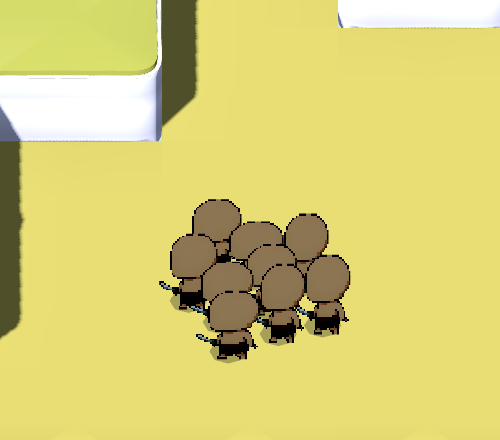
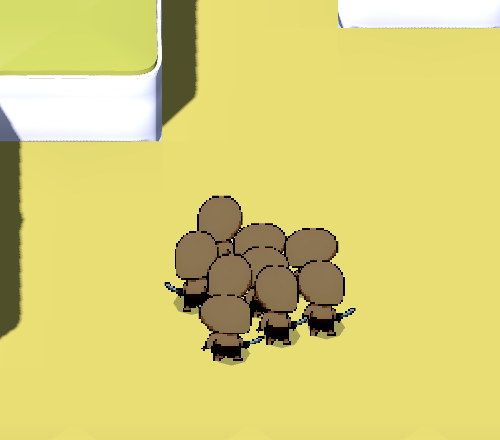
몸이 프레임마다 떨던 것을 멈추고, 회전은 픽셀 대신 자리 좌표로 다시 쟀다
사용자가 창을 보고: 「캐릭터가 프레임이 계속 앞뒤로 왔다갔다 거리면서 끔찍하다」.
랩이 프레임 머리에서 아홉을 자리에 써 넣으면 Battle.step 이 그걸 도로 밀어내고,
뷰는 밀려난 자리를 그렸다 — 몸마다 한 프레임에 한 번씩 끌려왔다 밀려났고 방향까지
같이 뒤집혔다. game.battle 을 null 로 두어 전투 시계만 멈췄다. FieldView 는 제
참조를 들고 있어서 그림은 그대로 돈다.

멈춘 판에서 두 프레임을 찍어 쟀다 — 바뀐 픽셀 0.

그래서 앞 라운드의 「잡음 6천」은 잡음이 아니라 이 떨림이었다. 회전 판정을 다시
했는데, 멈춰 놓고 재도 06 이 6,509 로 나온다 — 화면에는 몸마다 제 흔들림 위상이
같이 찍혀서, 자리는 같아도 누가 어디 서느냐가 바뀌면 그림이 바뀐다.

seat_probe.gd 를 넣었다. 스크린샷이 아니라 자리 아홉을 집합으로 찍어 본다:
06 은 남·동에서 자리가 안 움직이고 그 아홉이 02 와 같은 점이다. 03 은 움직인다.
결론은 그대로지만 앞의 근거는 틀렸고, 그걸 NOTES 와 참고 자료에 적었다.

Claude-Session: https://claude.ai/code/session_01NaKcQWjk7PPU7N4izTwNju

Changed region(s): [[0.3, 0.4432, 0.72, 0.8273]]

diff --git a/.prototypes/nine/06-ranks-wide/NOTES.md b/.prototypes/nine/06-ranks-wide/NOTES.md
@@ -4,9 +4,9 @@ Built to answer one thing the user was torn on (2026-08-31): *「I do like 2's s
 right.」* `03-ranks` is `02-grid` squeezed front to back and turned, so this opens the squeeze back out
 and keeps only the turning.
 
-- **What it buys** — nothing that can be seen. **Measured, not argued**: at south and at east it is the
-  same picture as `02-grid` to within the idle sway (≈5,000 changed pixels against a ≈6,000 noise
-  floor, where `03-ranks` differs from `02-grid` by ≈10,500).
+- **What it buys** — nothing that can be seen. **Measured with `seat_probe.gd`**: its nine seats do not
+  move between south and east, and they are the same nine points as `02-grid`'s. `03-ranks`' seats do
+  move.
 - **What it costs** — a sixth version to read, for a difference that does not exist at right angles.
 - **What it CANNOT do** — **show that it turned.** A square 3x3 lattice rotated a quarter turn maps
   onto itself, so「it faces east now」and「it faces south」are the same nine pixels.
@@ -16,3 +16,18 @@ and keeps only the turning.
 **A formation can only be SEEN to turn if its two pitches differ.** Equal spacing across and along is
 what makes the square, and a square is what makes the turn invisible. ⇒ **「02's look」 and 「it turns」
 are the same choice asked twice, and they cannot both be had at 90° facings.**
+
+## ⚠⚠ And how it was nearly measured wrong, twice
+
+**The first instrument was a pixel difference between two screenshots, and it said this version DOES
+turn** (≈6,500 changed pixels). It was wrong twice over:
+
+1. **The board was not still.** The lab wrote the seats at the top of the frame and `Battle.step`
+   nudged every body off them before the view drew — so any two frames differed by ~6,000 pixels no
+   matter what. That was read as a noise floor; it was a bug, and `_freeze` is the fix.
+2. **A screenshot carries each body's own idle-sway phase.** Even frozen, moving body 4 to a different
+   seat changes the picture while the nine SEATS stay the same nine points. **The seat plan is a set of
+   places; the picture also says who is standing in which.**
+
+⇒ **`seat_probe.gd` answers this question and screenshots do not.** ⚠ The conclusion above survived
+both errors, which is luck and not method.

diff --git a/docs/reference/2026-08-31-nine-in-a-block-prototypes/README.md b/docs/reference/2026-08-31-nine-in-a-block-prototypes/README.md
@@ -25,10 +25,17 @@ of the question the first one raised**, and both are kept: the size answer lives
 first.」* ⇒ the sheet was re-shot: **the same nine at two FACINGS instead of two body sizes**, and
 `06-ranks-wide` was added — `02-grid`'s square spacing with `03-ranks`' turning.
 
-⚠⚠ **A FORMATION CAN ONLY BE SEEN TO TURN IF ITS TWO PITCHES DIFFER.** Measured, not argued: at south
-and at east, `06-ranks-wide` is the same picture as `02-grid` to within the idle sway (≈5,000 changed
-pixels against a ≈6,000 noise floor), while `03-ranks` differs from `02-grid` by ≈10,500. **A square
-3x3 rotated a quarter turn maps onto itself.** ⇒ **「02's look」 and 「it turns」 cannot both be had.**
+⚠⚠ **A FORMATION CAN ONLY BE SEEN TO TURN IF ITS TWO PITCHES DIFFER.** Measured with `seat_probe.gd`:
+**`06-ranks-wide`'s nine seats do not move between south and east, and they are the same nine points as
+`02-grid`'s**, while `03-ranks`' seats do move. A square 3x3 rotated a quarter turn maps onto itself.
+⇒ **「02's look」 and 「it turns」 cannot both be had.**
+
+⚠⚠ **THE SAME CLAIM WAS MADE FIRST OFF A PIXEL DIFFERENCE AND THAT INSTRUMENT WAS BROKEN TWICE OVER.**
+The lab wrote the seats and `Battle.step` nudged the bodies off them before the view drew, so **every
+검사 vibrated once per frame** (the user, watching it: 「the character's frames keep jittering back
+and forth — it's horrible」) and any two frames differed by ~6,000 pixels. And even on a frozen board a
+screenshot carries each body's own idle-sway phase, so **moving a body to a different seat changes the
+picture while the seats stay identical.** The conclusion survived; the evidence did not.
 
 **What the user said the nine should FEEL like** (2026-08-31): *「Moving them all at once would work
 too, of course, but really it should feel like they go one after another, streaming along — a bit like
